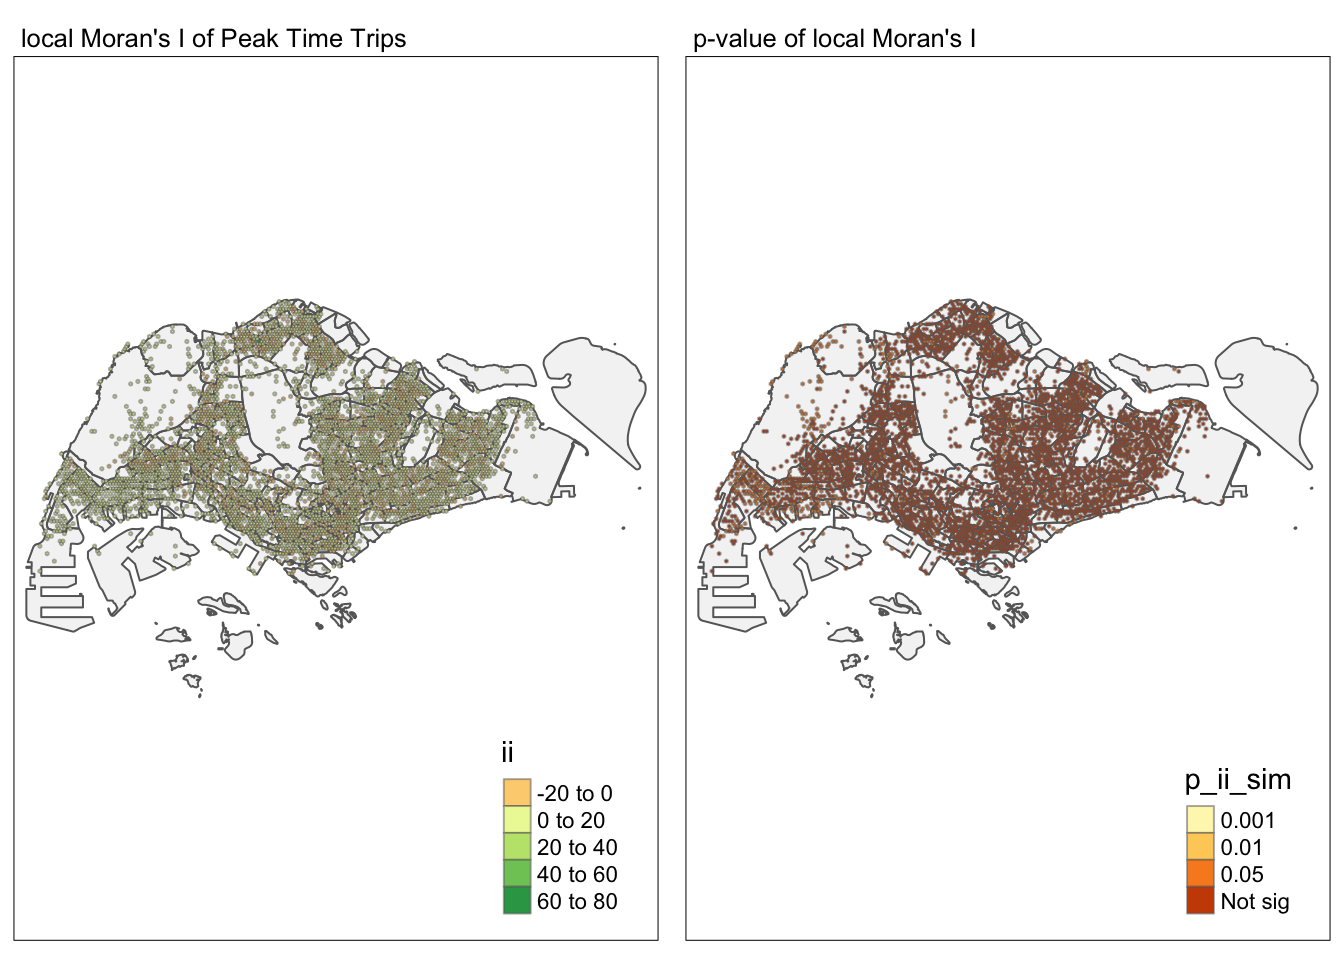
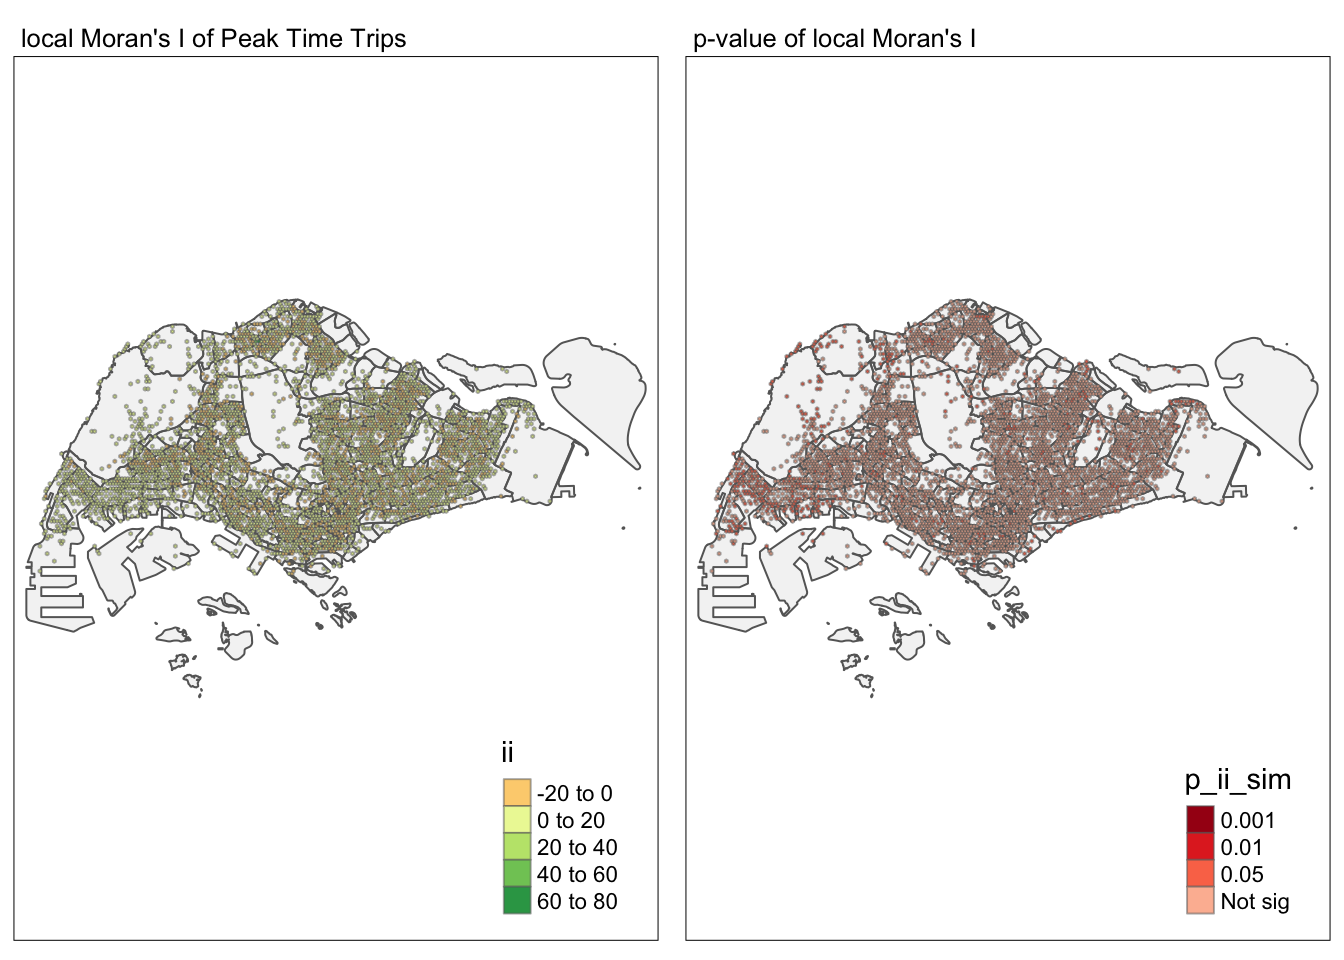
commit for some minor editting on take home excercise 1.

Changed region(s): [[0.5312, 0.3125, 0.9062, 0.5938], [0.875, 0.8438, 0.9062, 0.9688]]

diff --git a/_site/Takehome_Ex/Takehome_Ex01/Takehome_Ex01.html b/_site/Takehome_Ex/Takehome_Ex01/Takehome_Ex01.html
@@ -227,7 +227,7 @@ pre > code.sourceCode > span > a:first-child::before { text-decoration: underlin
           <li class="sidebar-item">
   <div class="sidebar-item-container"> 
   <a href="../../Takehome_Ex/Takehome_Ex02/Takehome_Ex02.html" class="sidebar-item-text sidebar-link">
- <span class="menu-text">Takehome_Ex01</span></a>
+ <span class="menu-text">Take Home Exercise 2</span></a>
   </div>
 </li>
       </ul>
@@ -410,6 +410,19 @@ Geodetic CRS:  WGS 84</code></pre>
 <span id="cb8-5"><a href="#cb8-5" aria-hidden="true" tabindex="-1"></a>  <span class="fu">distinct</span>(BUS_STOP_N, <span class="at">.keep_all =</span> <span class="cn">TRUE</span>)</span></code><button title="Copy to Clipboard" class="code-copy-button"><i class="bi"></i></button></pre></div>
 </details>
 </div>
+<div class="callout callout-style-default callout-important callout-titled">
+<div class="callout-header d-flex align-content-center">
+<div class="callout-icon-container">
+<i class="callout-icon"></i>
+</div>
+<div class="callout-title-container flex-fill">
+Important
+</div>
+</div>
+<div class="callout-body-container callout-body">
+<p>To avoid same geometry for multiple bus stop, here I choose to use st_nearest_feature as join method instead of intersection.</p>
+</div>
+</div>
 <p>Check for duplicate geometry.</p>
 <div class="cell">
 <details>
@@ -584,8 +597,7 @@ $ interval       &lt;chr&gt; "weekday_6_9", "weekday_6_9", "weekday_6_9", "weekd
 </div>
 </div>
 <p>4.1.3.2 Then, to display the geographical distribution of 4 time intervals separately for comparison:</p>
-<ul>
-<li><p>Regenerate trip data with the “interval” column to indicate different time intervals.</p>
+<p>Regenerate trip data with the “interval” column to indicate different time intervals.</p>
 <div class="cell">
 <details>
 <summary>Code</summary>
@@ -622,6 +634,7 @@ Important
 <p>Here I create a column “daily_trips” to find number of trips per day, since it’s hard to compare the absolute number when we are differentiating weekday and weekend peak times intervals. For Aug 2023, there are 31 days in which 8 days are weekends and 1 day is National holiday.</p>
 </div>
 </div>
+<p>To draw polygons, I will use pivot_wider to pivot interval into columns.</p>
 <div class="cell">
 <details>
 <summary>Code</summary>
@@ -644,16 +657,16 @@ Important
 4 01029                424         117           364           472
 5 01039                589         134           603           823</code></pre>
 </div>
-</div></li>
-<li><p>Join back with hexagon.</p>
+</div>
+<p>Join back with hexagon before visualization.</p>
 <div class="cell">
 <details>
 <summary>Code</summary>
 <div class="sourceCode cell-code" id="cb22"><pre class="sourceCode r code-with-copy"><code class="sourceCode r"><span id="cb22-1"><a href="#cb22-1" aria-hidden="true" tabindex="-1"></a>interval_dailytrip_hex <span class="ot">&lt;-</span> <span class="fu">left_join</span>(bus_hex, peak_dailytrips_interval,</span>
 <span id="cb22-2"><a href="#cb22-2" aria-hidden="true" tabindex="-1"></a>                           <span class="at">by =</span> <span class="fu">join_by</span>(BUS_STOP_N)) </span></code><button title="Copy to Clipboard" class="code-copy-button"><i class="bi"></i></button></pre></div>
 </details>
-</div></li>
-<li><p>Then we can visualize daily trip distribution for each time intervals.</p>
+</div>
+<p>Then we can visualize daily trip distribution for each time intervals.</p>
 <div class="cell">
 <details>
 <summary>Code</summary>
@@ -675,8 +688,7 @@ Important
 <div class="cell-output-display">
 <p><img src="Takehome_Ex01_files/figure-html/unnamed-chunk-16-1.png" class="img-fluid" width="672"></p>
 </div>
-</div></li>
-</ul>
+</div>
 <div class="callout callout-style-default callout-note callout-titled">
 <div class="callout-header d-flex align-content-center">
 <div class="callout-icon-container">
@@ -801,13 +813,13 @@ Note
 <p>The Moran’I statistic (0.10933) indicates a slightly positive spatial autocorrelation, suggesting that similar values tend to be clustered together in our map, so we can continue with LISA.</p>
 </div>
 </div>
-<p>Then we can compute LISA of bus trips during peak time hours.</p>
+<p>Then we can compute LISA of passenger trips during peak time hours.</p>
 <div class="cell">
 <details>
 <summary>Code</summary>
 <div class="sourceCode cell-code" id="cb28"><pre class="sourceCode r code-with-copy"><code class="sourceCode r"><span id="cb28-1"><a href="#cb28-1" aria-hidden="true" tabindex="-1"></a>lisa <span class="ot">&lt;-</span> weight_q <span class="sc">%&gt;%</span> </span>
 <span id="cb28-2"><a href="#cb28-2" aria-hidden="true" tabindex="-1"></a>  <span class="fu">mutate</span>(<span class="at">local_moran =</span> <span class="fu">local_moran</span>(</span>
-<span id="cb28-3"><a href="#cb28-3" aria-hidden="true" tabindex="-1"></a>    TRIPS, nb, wt, <span class="at">nsim =</span> <span class="dv">99</span>),</span>
+<span id="cb28-3"><a href="#cb28-3" aria-hidden="true" tabindex="-1"></a>    TRIPS, nb, wt, <span class="at">nsim =</span> <span class="dv">199</span>),</span>
 <span id="cb28-4"><a href="#cb28-4" aria-hidden="true" tabindex="-1"></a>         <span class="at">.before =</span> <span class="dv">1</span>) <span class="sc">%&gt;%</span></span>
 <span id="cb28-5"><a href="#cb28-5" aria-hidden="true" tabindex="-1"></a>  <span class="fu">unnest</span>(local_moran)</span>
 <span id="cb28-6"><a href="#cb28-6" aria-hidden="true" tabindex="-1"></a></span>
@@ -817,14 +829,14 @@ Note
 <pre><code>Rows: 4,044
 Columns: 18
 $ ii           &lt;dbl&gt; 0.01683533, 0.03658211, 0.05060816, 0.06595975, 0.0565997…
-$ eii          &lt;dbl&gt; 0.0009541101, 0.0064280658, 0.0042094701, -0.0076434160, …
-$ var_ii       &lt;dbl&gt; 0.0008058112, 0.0008351798, 0.0040217186, 0.0139656662, 0…
-$ z_ii         &lt;dbl&gt; 0.5594575, 1.0434115, 0.7316440, 0.6228244, 0.9455728, 0.…
-$ p_ii         &lt;dbl&gt; 0.5758495, 0.2967578, 0.4643859, 0.5333999, 0.3443665, 0.…
-$ p_ii_sim     &lt;dbl&gt; 0.22, 0.10, 0.14, 0.06, 0.14, 0.92, 0.24, 0.02, 0.16, 0.5…
-$ p_folded_sim &lt;dbl&gt; 0.11, 0.05, 0.07, 0.03, 0.07, 0.46, 0.12, 0.01, 0.08, 0.2…
-$ skewness     &lt;dbl&gt; -4.170107, -1.927549, -4.831018, -6.631103, -2.055824, -6…
-$ kurtosis     &lt;dbl&gt; 19.7591067, 5.0822437, 33.1092352, 53.0827866, 5.4390592,…
+$ eii          &lt;dbl&gt; 0.0023890846, 0.0011069140, -0.0020652686, -0.0074375318,…
+$ var_ii       &lt;dbl&gt; 0.0004110818, 0.0018452585, 0.0075471964, 0.0087109926, 0…
+$ z_ii         &lt;dbl&gt; 0.7125097, 0.8258406, 0.6063156, 0.7864048, 0.7386234, 0.…
+$ p_ii         &lt;dbl&gt; 0.4761492, 0.4088945, 0.5443052, 0.4316304, 0.4601357, 0.…
+$ p_ii_sim     &lt;dbl&gt; 0.21, 0.07, 0.13, 0.04, 0.09, 0.82, 0.28, 0.03, 0.11, 0.5…
+$ p_folded_sim &lt;dbl&gt; 0.105, 0.035, 0.065, 0.020, 0.045, 0.410, 0.140, 0.015, 0…
+$ skewness     &lt;dbl&gt; -3.920333, -4.000057, -6.940666, -4.857223, -4.134682, -5…
+$ kurtosis     &lt;dbl&gt; 22.623553, 22.981888, 63.967522, 32.243401, 22.447469, 49…
 $ mean         &lt;fct&gt; Low-Low, Low-Low, Low-Low, Low-Low, Low-Low, Low-Low, Low…
 $ median       &lt;fct&gt; Low-Low, Low-Low, Low-Low, Low-Low, Low-Low, Low-Low, Low…
 $ pysal        &lt;fct&gt; Low-Low, Low-Low, Low-Low, Low-Low, Low-Low, Low-Low, Low…
@@ -862,16 +874,30 @@ $ geometry     &lt;POLYGON [m]&gt; POLYGON ((3845.122 26554.27..., POLYGON ((384
 <span id="cb30-17"><a href="#cb30-17" aria-hidden="true" tabindex="-1"></a>  <span class="fu">tm_borders</span>(<span class="at">alpha =</span> <span class="fl">0.2</span>) <span class="sc">+</span></span>
 <span id="cb30-18"><a href="#cb30-18" aria-hidden="true" tabindex="-1"></a>  <span class="fu">tm_shape</span>(lisa) <span class="sc">+</span></span>
 <span id="cb30-19"><a href="#cb30-19" aria-hidden="true" tabindex="-1"></a>  <span class="fu">tm_fill</span>(<span class="st">"p_ii_sim"</span>,</span>
-<span id="cb30-20"><a href="#cb30-20" aria-hidden="true" tabindex="-1"></a>          <span class="at">breaks =</span> <span class="fu">c</span>(<span class="dv">0</span>, <span class="fl">0.001</span>, <span class="fl">0.01</span>, <span class="fl">0.05</span>, <span class="dv">1</span>),</span>
-<span id="cb30-21"><a href="#cb30-21" aria-hidden="true" tabindex="-1"></a>              <span class="at">labels =</span> <span class="fu">c</span>(<span class="st">"0.001"</span>, <span class="st">"0.01"</span>, <span class="st">"0.05"</span>, <span class="st">"Not sig"</span>)) <span class="sc">+</span> </span>
-<span id="cb30-22"><a href="#cb30-22" aria-hidden="true" tabindex="-1"></a>  <span class="fu">tm_borders</span>(<span class="at">alpha =</span> <span class="fl">0.5</span>) <span class="sc">+</span></span>
-<span id="cb30-23"><a href="#cb30-23" aria-hidden="true" tabindex="-1"></a>  <span class="fu">tm_layout</span>(<span class="at">main.title =</span> <span class="st">"p-value of local Moran's I"</span>,</span>
-<span id="cb30-24"><a href="#cb30-24" aria-hidden="true" tabindex="-1"></a>            <span class="at">main.title.size =</span> <span class="fl">0.8</span>)</span>
-<span id="cb30-25"><a href="#cb30-25" aria-hidden="true" tabindex="-1"></a></span>
-<span id="cb30-26"><a href="#cb30-26" aria-hidden="true" tabindex="-1"></a><span class="fu">tmap_arrange</span>(map1, map2, <span class="at">ncol =</span> <span class="dv">2</span>)</span></code><button title="Copy to Clipboard" class="code-copy-button"><i class="bi"></i></button></pre></div>
+<span id="cb30-20"><a href="#cb30-20" aria-hidden="true" tabindex="-1"></a>          <span class="at">palette =</span> <span class="st">"-Reds"</span>,</span>
+<span id="cb30-21"><a href="#cb30-21" aria-hidden="true" tabindex="-1"></a>          <span class="at">breaks =</span> <span class="fu">c</span>(<span class="dv">0</span>, <span class="fl">0.001</span>, <span class="fl">0.01</span>, <span class="fl">0.05</span>, <span class="dv">1</span>),</span>
+<span id="cb30-22"><a href="#cb30-22" aria-hidden="true" tabindex="-1"></a>              <span class="at">labels =</span> <span class="fu">c</span>(<span class="st">"0.001"</span>, <span class="st">"0.01"</span>, <span class="st">"0.05"</span>, <span class="st">"Not sig"</span>)) <span class="sc">+</span> </span>
+<span id="cb30-23"><a href="#cb30-23" aria-hidden="true" tabindex="-1"></a>  <span class="fu">tm_borders</span>(<span class="at">alpha =</span> <span class="fl">0.5</span>) <span class="sc">+</span></span>
+<span id="cb30-24"><a href="#cb30-24" aria-hidden="true" tabindex="-1"></a>  <span class="fu">tm_layout</span>(<span class="at">main.title =</span> <span class="st">"p-value of local Moran's I"</span>,</span>
+<span id="cb30-25"><a href="#cb30-25" aria-hidden="true" tabindex="-1"></a>            <span class="at">main.title.size =</span> <span class="fl">0.8</span>)</span>
+<span id="cb30-26"><a href="#cb30-26" aria-hidden="true" tabindex="-1"></a></span>
+<span id="cb30-27"><a href="#cb30-27" aria-hidden="true" tabindex="-1"></a><span class="fu">tmap_arrange</span>(map1, map2, <span class="at">ncol =</span> <span class="dv">2</span>)</span></code><button title="Copy to Clipboard" class="code-copy-button"><i class="bi"></i></button></pre></div>
 </details>
 <div class="cell-output-display">
 <p><img src="Takehome_Ex01_files/figure-html/unnamed-chunk-20-1.png" class="img-fluid" width="672"></p>
+</div>
+</div>
+<div class="callout callout-style-default callout-important callout-titled">
+<div class="callout-header d-flex align-content-center">
+<div class="callout-icon-container">
+<i class="callout-icon"></i>
+</div>
+<div class="callout-title-container flex-fill">
+Important
+</div>
+</div>
+<div class="callout-body-container callout-body">
+<p>Here I reverse the color palette of p-value, to put more emphasize on significant spots (which with lower p-value).</p>
 </div>
 </div>
 <p>Then we can display only the significant (p-value &lt; 0.05) part on map.</p>
@@ -906,7 +932,11 @@ Note
 </div>
 <div class="callout-body-container callout-body">
 <p><strong>Observation:</strong></p>
-<p>Hot points mostly concentrate in those busy bus stops and cold points mostly in border area.</p>
+<ul>
+<li><p>Hot spots mostly concentrate in those busy bus stops and cold spots mostly in border area.</p></li>
+<li><p>The location of those hot/cold spots go along with the density of passenger trip numbers.</p></li>
+<li><p>There’s seldom High-Low or Low-High spots which would be spatial outliers.</p></li>
+</ul>
 </div>
 </div>
 

diff --git a/_site/Takehome_Ex/Takehome_Ex02/Takehome_Ex02.html b/_site/Takehome_Ex/Takehome_Ex02/Takehome_Ex02.html
@@ -7,9 +7,9 @@
 <meta name="viewport" content="width=device-width, initial-scale=1.0, user-scalable=yes">
 
 <meta name="author" content="LIANG YAO">
-<meta name="dcterms.date" content="2023-11-30">
+<meta name="dcterms.date" content="2023-12-07">
 
-<title>ISSS624 Geospatial Analytics - Takehome_Ex01</title>
+<title>ISSS624 Geospatial Analytics - Take Home Exercise 2</title>
 <style>
 code{white-space: pre-wrap;}
 span.smallcaps{font-variant: small-caps;}
@@ -109,7 +109,7 @@ pre > code.sourceCode > span > a:first-child::before { text-decoration: underlin
       <button type="button" class="quarto-btn-toggle btn" data-bs-toggle="collapse" data-bs-target="#quarto-sidebar,#quarto-sidebar-glass" aria-controls="quarto-sidebar" aria-expanded="false" aria-label="Toggle sidebar navigation" onclick="if (window.quartoToggleHeadroom) { window.quartoToggleHeadroom(); }">
         <i class="bi bi-layout-text-sidebar-reverse"></i>
       </button>
-      <nav class="quarto-page-breadcrumbs" aria-label="breadcrumb"><ol class="breadcrumb"><li class="breadcrumb-item"><a href="../../Takehome_Ex/Takehome_Ex01/Takehome_Ex01.html">Take Home Ex</a></li><li class="breadcrumb-item"><a href="../../Takehome_Ex/Takehome_Ex02/Takehome_Ex02.html">Takehome_Ex01</a></li></ol></nav>
+      <nav class="quarto-page-breadcrumbs" aria-label="breadcrumb"><ol class="breadcrumb"><li class="breadcrumb-item"><a href="../../Takehome_Ex/Takehome_Ex01/Takehome_Ex01.html">Take Home Ex</a></li><li class="breadcrumb-item"><a href="../../Takehome_Ex/Takehome_Ex02/Takehome_Ex02.html">Take Home Exercise 2</a></li></ol></nav>
       <a class="flex-grow-1" role="button" data-bs-toggle="collapse" data-bs-target="#quarto-sidebar,#quarto-sidebar-glass" aria-controls="quarto-sidebar" aria-expanded="false" aria-label="Toggle sidebar navigation" onclick="if (window.quartoToggleHeadroom) { window.quartoToggleHeadroom(); }">      
       </a>
       <button type="button" class="btn quarto-search-button" aria-label="" onclick="window.quartoOpenSearch();">
@@ -227,7 +227,7 @@ pre > code.sourceCode > span > a:first-child::before { text-decoration: underlin
           <li class="sidebar-item">
   <div class="sidebar-item-container"> 
   <a href="../../Takehome_Ex/Takehome_Ex02/Takehome_Ex02.html" class="sidebar-item-text sidebar-link active">
- <span class="menu-text">Takehome_Ex01</span></a>
+ <span class="menu-text">Take Home Exercise 2</span></a>
   </div>
 </li>
       </ul>
@@ -265,7 +265,7 @@ pre > code.sourceCode > span > a:first-child::before { text-decoration: underlin
 
 <header id="title-block-header" class="quarto-title-block default">
 <div class="quarto-title">
-<h1 class="title">Takehome_Ex01</h1>
+<h1 class="title">Take Home Exercise 2</h1>
 </div>
 
 
@@ -282,7 +282,7 @@ pre > code.sourceCode > span > a:first-child::before { text-decoration: underlin
     <div>
     <div class="quarto-title-meta-heading">Published</div>
     <div class="quarto-title-meta-contents">
-      <p class="date">November 30, 2023</p>
+      <p class="date">December 7, 2023</p>
     </div>
   </div>
   
